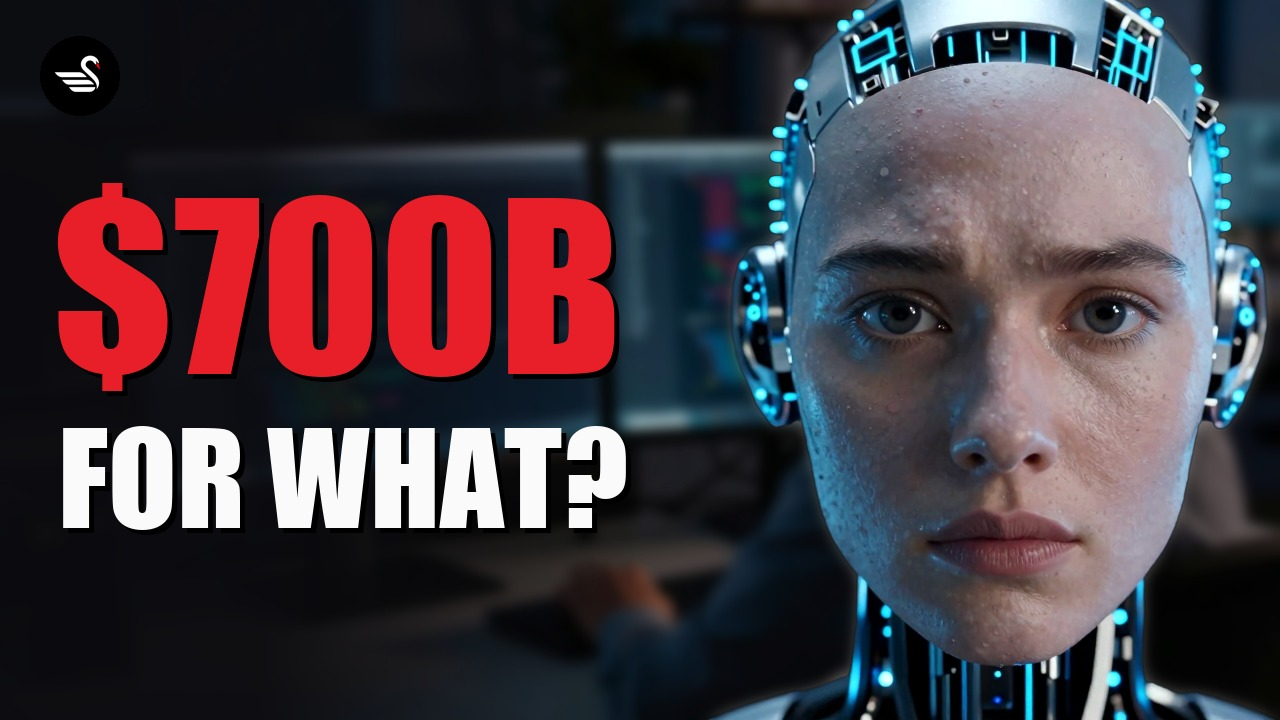
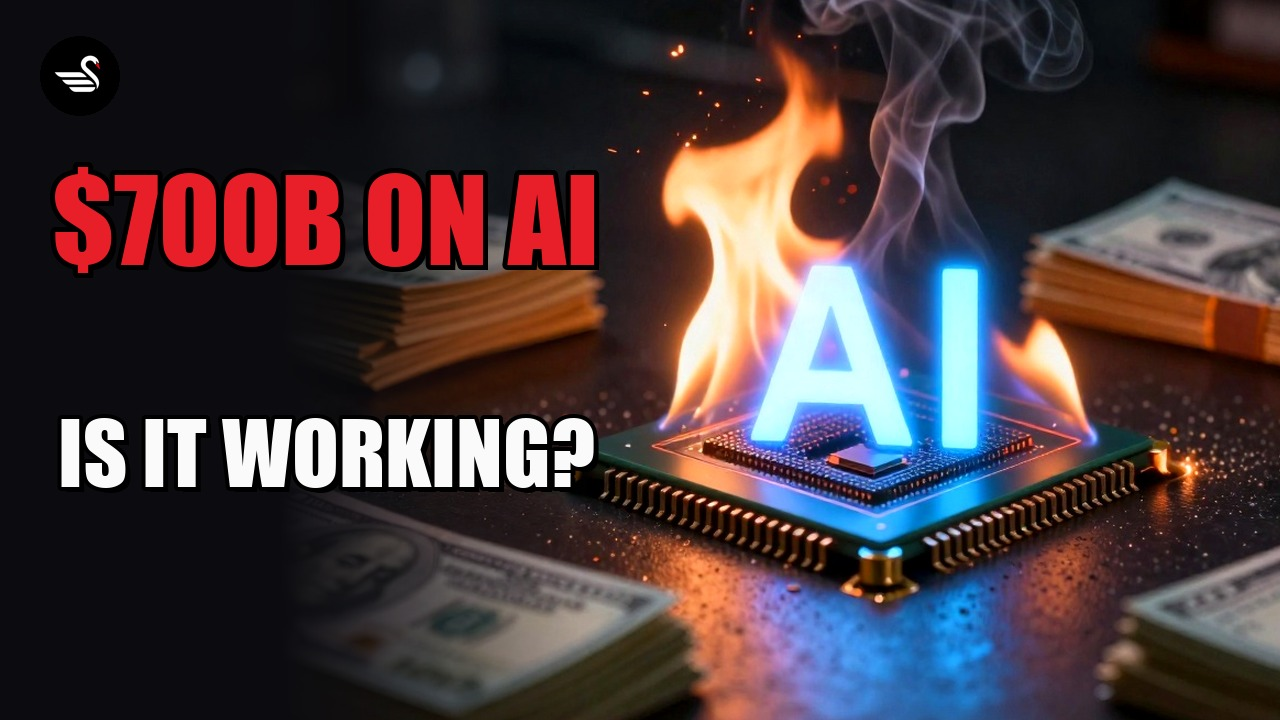
BlackswanVault di: AI-thumbnail met brandende AI-chip (onderwerp zelf), op YouTube gezet
Claude-Session: https://claude.ai/code/session_014CuA5TEJcpxSFwGB8toE8c

diff --git a/kanalen/blackswanvault/video6/thumb_ding.py b/kanalen/blackswanvault/video6/thumb_ding.py
@@ -1,0 +1,28 @@
+"""Thumbnail met het onderwerp zelf (eigenaar 21 nov: "de persoon die ermee te maken heeft of het ding laten zien").
+Het beeld vult de rechterkant (onderwerp rond x=880), links donker met de tekst. Alleen eigen AI-beelden of beelden met licentie (echt/bronnen.tsv).
+Gebruik: python thumb_ding.py <beeld> <midden 0-1: waar het onderwerp in het beeld staat> <regel1 rood> <regel2 wit> <uit.jpg>"""
+import sys, os
+from PIL import Image, ImageDraw, ImageFont, ImageEnhance
+W, H, DOEL = 1280, 720, 880
+beeld, mid, r1, r2, uit = sys.argv[1], float(sys.argv[2]), sys.argv[3], sys.argv[4], sys.argv[5]
+im = Image.open(beeld).convert("RGB"); sc = max(H / im.height, W / im.width) * float(os.environ.get("ZOOM", "1.0"))
+im = im.resize((int(im.width * sc), int(im.height * sc)), Image.LANCZOS)
+im = ImageEnhance.Contrast(ImageEnhance.Color(im).enhance(1.15)).enhance(1.08)
+x = int(DOEL - mid * im.width); x = min(x, W - 200); x = max(x, W - im.width); y = (H - im.height) // 2
+doek = Image.new("RGB", (W, H), (12, 12, 16)); doek.paste(im, (x, y))
+links = max(0, x)                                        # waar het beeld begint; daar zacht laten overlopen in donker
+grad = Image.new("L", (W, 1))
+for i in range(W):
+    a = max(min(1, (600 - i) / 320), min(1, (links + 300 - i) / 300) if links > 0 else 0)
+    grad.putpixel((i, 0), int(255 * max(0, a)))
+doek = Image.composite(Image.new("RGB", (W, H), (12, 12, 16)), doek, grad.resize((W, H)))
+d = ImageDraw.Draw(doek); F = "C:/Windows/Fonts/impact.ttf"
+def pas(s, maxw, start):
+    n = start
+    while ImageFont.truetype(F, n).getlength(s) > maxw and n > 40: n -= 4
+    return ImageFont.truetype(F, n)
+f1 = pas(r1, 560, 230); f2 = pas(r2, 560, 150)
+d.text((57, 155), r1, font=f1, fill=(0, 0, 0)); d.text((52, 150), r1, font=f1, fill=(232, 30, 40), stroke_width=5, stroke_fill=(0, 0, 0))
+d.text((63, 405), r2, font=f2, fill=(0, 0, 0)); d.text((58, 400), r2, font=f2, fill=(250, 250, 250), stroke_width=4, stroke_fill=(0, 0, 0))
+logo = Image.open("logo.png").convert("RGB").resize((80, 80)); m = Image.new("L", (80, 80), 0); ImageDraw.Draw(m).ellipse([0, 0, 79, 79], fill=255)
+doek.paste(logo, (40, 36), m); doek.save(uit, quality=92); print(uit)
